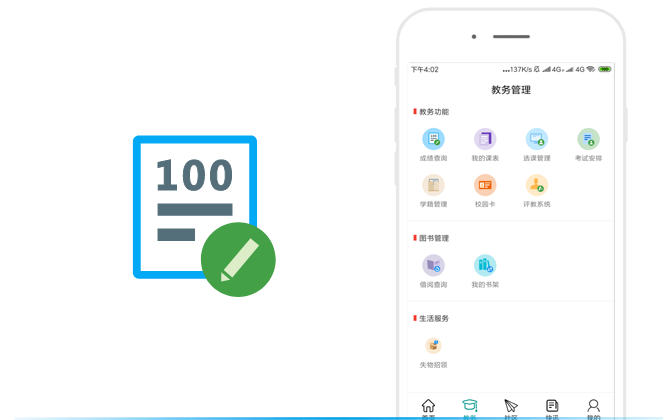
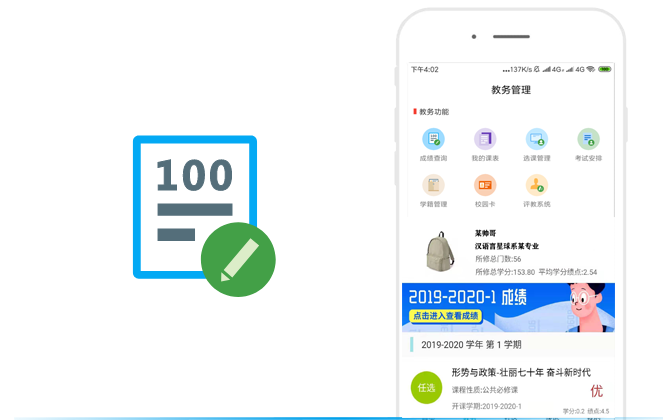
修改app介绍图片

Changed region(s): [[0.6033, 0.5262, 0.9351, 1.0]]

diff --git a/src/pages/common/appIntro/index.jsx b/src/pages/common/appIntro/index.jsx
@@ -28,7 +28,7 @@ class AppIntro extends Component {
 
                 </div>
                 {/*<img className="img-content" src='https://i.loli.net/2019/08/14/AeHJ2FIoOzbSG5r.png'/>*/}
-                {/*<img className="img-content" src='image/app_intro_01.png'/>*/}
+                <img className="img-content" src='image/app_intro_01.png'/>
                 <img className="img-title" src='image/ic_app_home_title.jpg'/>
                 <img className="img-content" src='image/ic_app_home.png'/>
                 <img className="img-title" src='image/ic_app_jiaowu_title.jpg'/>
